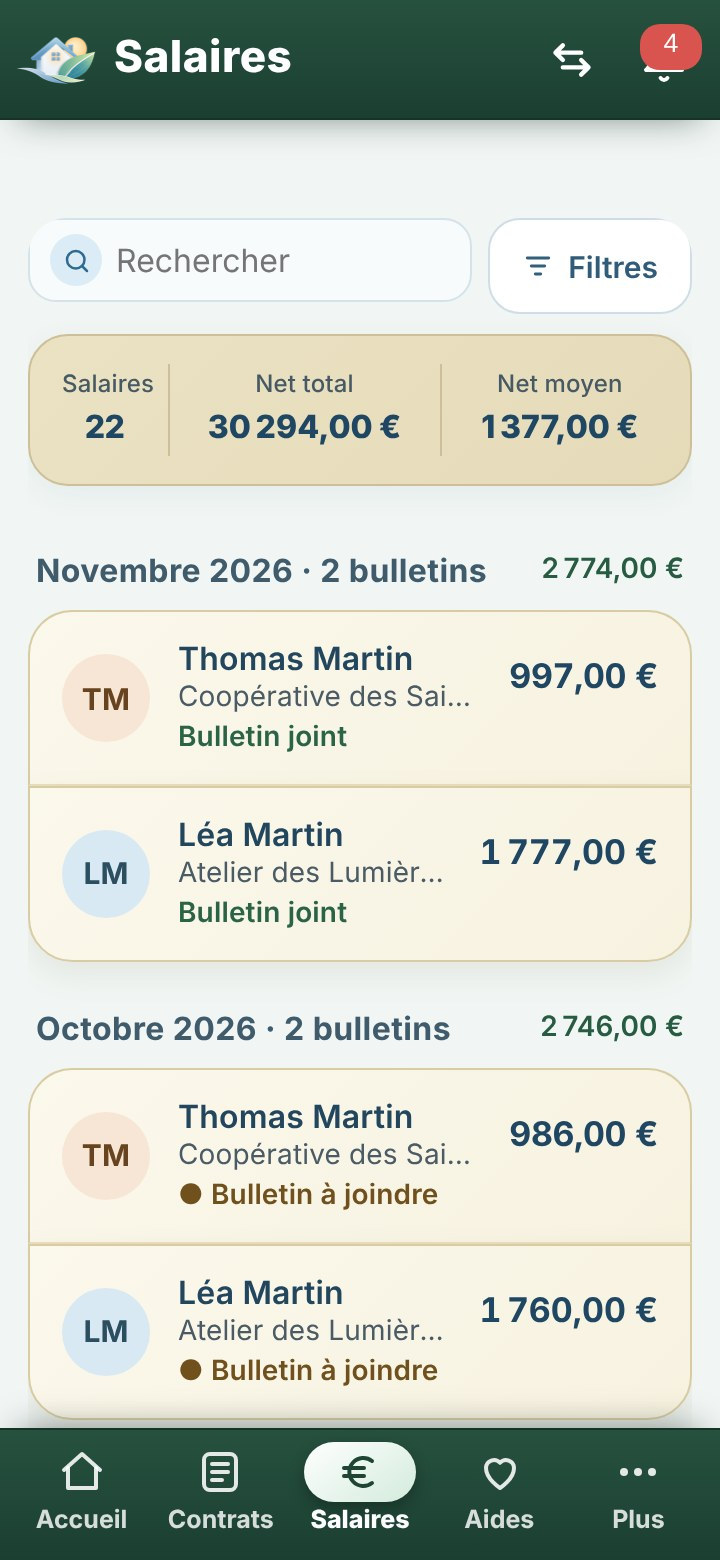
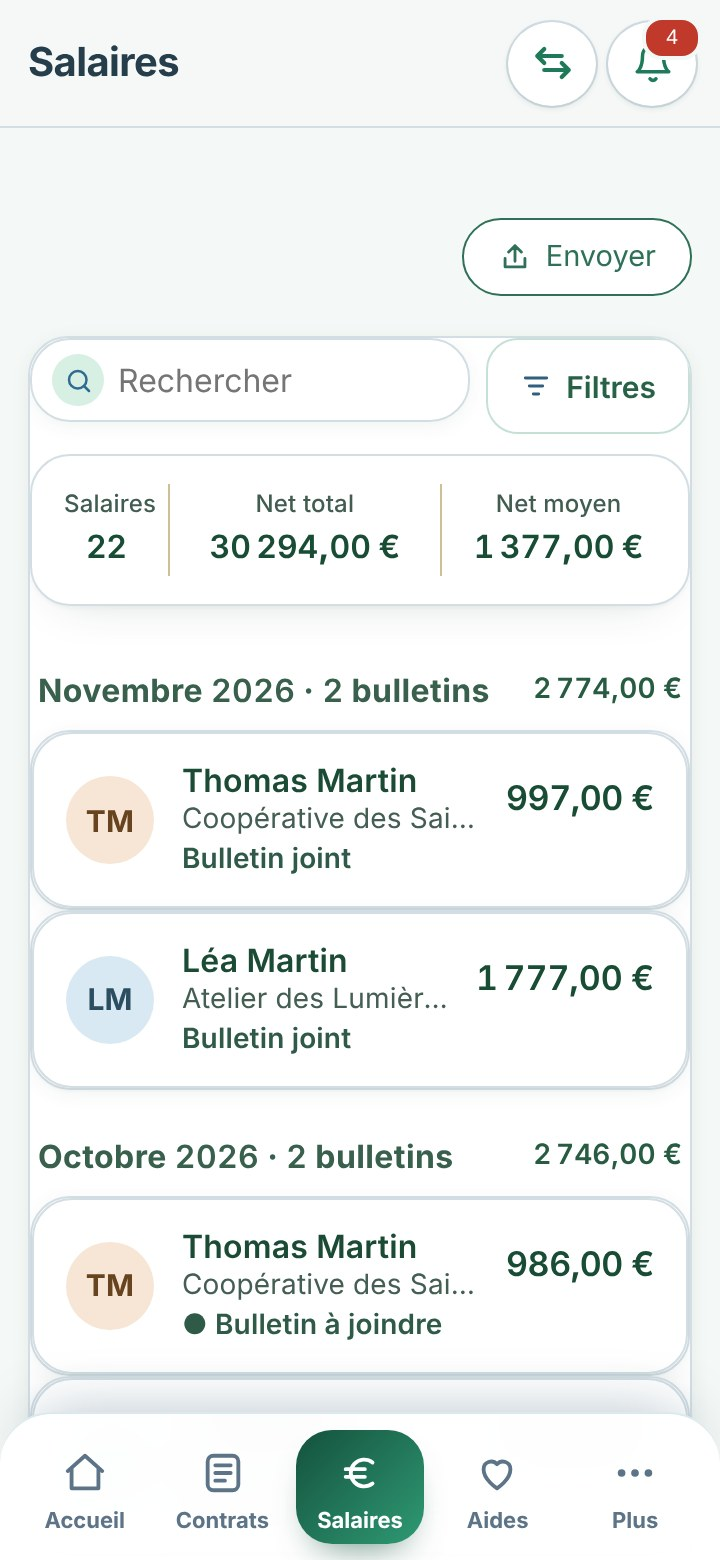
Site : application Android 1.5.30 (version modernisée), trois captures de téléphone recapturées
Claude-Session: https://claude.ai/code/session_01RA8xAmmrXVRgUB3XPSfCSo

diff --git a/index.html b/index.html
@@ -349,7 +349,7 @@ footer .links a{margin-right:16px}
     </div>
     <div class="hstage rise" style="--d:.36s">
       <figure class="win2"><div class="bar2" aria-hidden="true"><i></i><i></i><i></i><span>Providentia</span></div><img src="img/hero_app.jpg?v=3" width="2400" height="1500" decoding="async" fetchpriority="high" alt="Écran d’accueil de Providentia, espace Ressources : « Bonjour, que voulez-vous faire ? », le geste du moment et cinq tuiles pour ajouter un contrat, un salaire, une aide, un courrier ou vérifier ses droits"></figure>
-      <figure class="ph2"><img src="img/hero_phone.jpg?v=2" width="720" height="1560" decoding="async" alt="Page Salaires de l’application Android : net total, net moyen et bulletins du mois, en lecture seule"></figure>
+      <figure class="ph2"><img src="img/hero_phone.jpg?v=3" width="720" height="1560" decoding="async" alt="Page Salaires de l’application Android : net total, net moyen et bulletins du mois, en lecture seule"></figure>
     </div>
     <p class="hstage-cap rise" style="--d:.44s">Windows pour tout gérer, Android pour consulter. Captures avec des données fictives.</p>
   </section>
@@ -474,8 +474,8 @@ footer .links a{margin-right:16px}
         <div class="cta"><a class="btn" href="#telecharger">Télécharger l’application</a></div>
       </div>
       <div class="phones" aria-label="Captures de l’application mobile">
-        <figure class="phone"><img src="img/tel_res.jpg?v=4" width="720" height="1608" decoding="async" loading="lazy" alt="Application Android, espace Ressources : le tableau de bord avec le total de l’année, les salaires, les aides et une alerte à traiter"></figure>
-        <figure class="phone"><img src="img/tel_dep.jpg?v=4" width="720" height="1608" decoding="async" loading="lazy" alt="Application Android, espace Dépenses : l’accueil avec le geste du moment, un prêt à régler"></figure>
+        <figure class="phone"><img src="img/tel_res.jpg?v=5" width="720" height="1608" decoding="async" loading="lazy" alt="Application Android, espace Ressources : l’accueil avec le bilan du foyer et le geste du moment, un avis d’imposition à enregistrer"></figure>
+        <figure class="phone"><img src="img/tel_dep.jpg?v=5" width="720" height="1608" decoding="async" loading="lazy" alt="Application Android, espace Dépenses : l’accueil avec le geste du moment, un prêt à régler"></figure>
       </div>
     </div>
   </section>
@@ -589,7 +589,7 @@ footer .links a{margin-right:16px}
           <span class="eyebrow">Étape 2 · sur votre téléphone</span>
           <h3>📱 Android</h3>
           <a class="btn" href="https://github.com/mailtomehome-stack/providentia/releases/latest/download/Providentia-mobile.apk" rel="noopener">Télécharger pour Android</a>
-          <p class="ver">Version 1.5.22</p>
+          <p class="ver">Version 1.5.30</p>
           <p class="note" style="margin:0"><strong>À faire après l’étape 1.</strong> La copie Android se relie à Providentia installée sur votre ordinateur : sans elle, l’application mobile ne s’ouvre pas.</p>
           <ol class="steps">
             <li><span><strong>Téléchargez</strong> le fichier depuis votre téléphone.</span></li>
